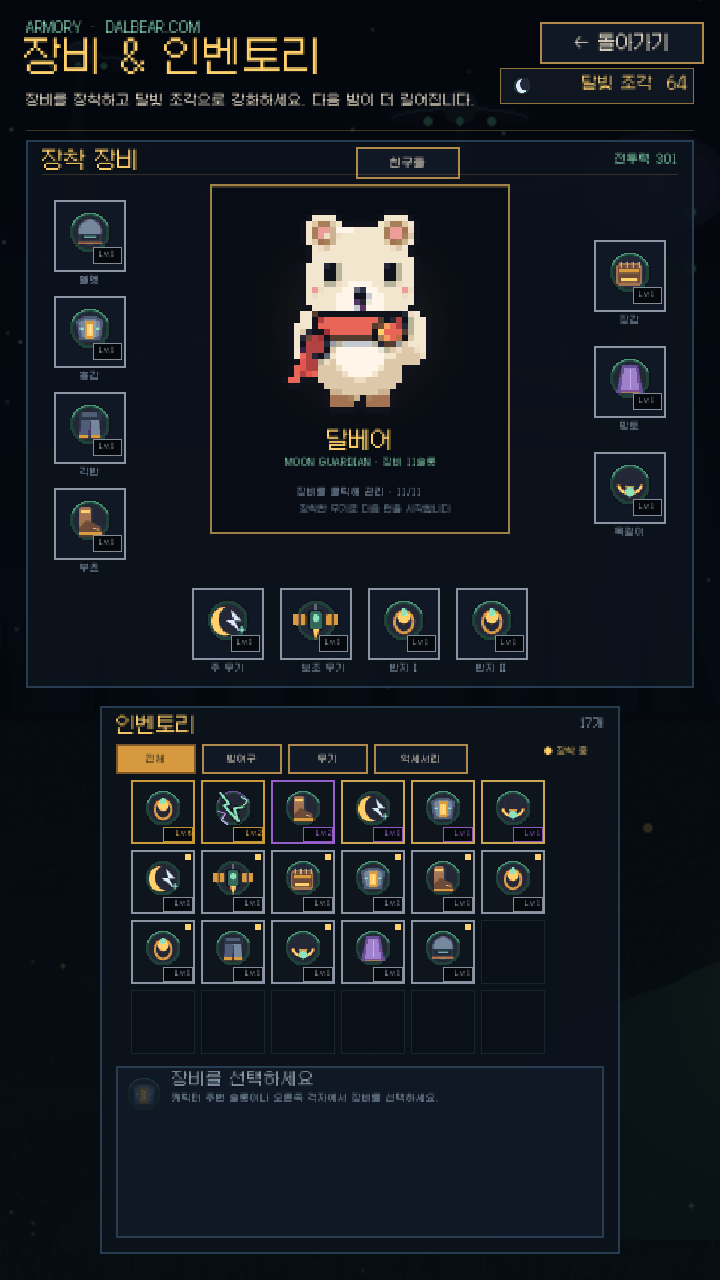
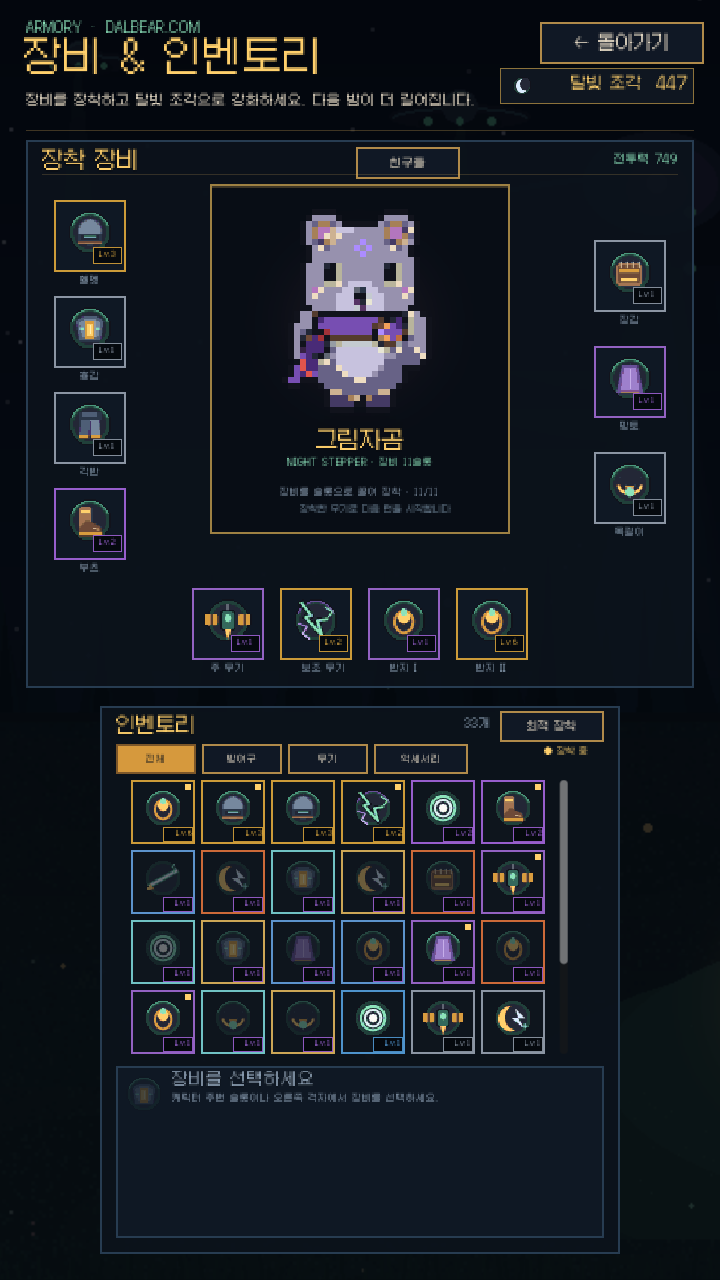
feat: drag-to-equip and one-tap best gear (v1.7.4)
Inventory items can be dragged (mouse or touch) onto a slot to equip, or onto the character to auto-place; a press that scrolls the list cancels the drag. Adds a 최적 장착 button and Game.auto_equip_best() to equip the strongest usable item in all 11 slots (distinct weapon types, best two rings, per-slot armor). Adds --test-drag. Bumps Android versionCode to 13.

diff --git a/README.md b/README.md
@@ -307,6 +307,8 @@ godot --headless --path . --export-debug "Android" build/DALBEAR.apk
 - 방어구와 악세서리는 체력·방어·피해·공격 대기·이동·치명타·자력·재생 등을 올립니다.
 - **전용 장비**(친구 서명 장비)는 일반 장비보다 강한 고유 능력치를 가지며, 지정된 친구만 장착할 수 있습니다.
 - 장비 화면 상단의 **친구들** 버튼 또는 `C`로 친구를 바꿀 수 있습니다.
+- 인벤토리 아이템을 **슬롯 위로 끌어다 놓아 장착**할 수 있습니다. 마우스 드래그와 터치 스와이프 모두 지원하며, 캐릭터 위에 놓으면 알맞은 빈 슬롯에 자동으로 들어갑니다.
+- 인벤토리 상단의 **최적 장착** 버튼 하나로 보유한 가장 강한 장비를 11개 슬롯에 자동 장착합니다. (전용 장비는 해당 친구만, 같은 무기 종류 중복 없음)
 
 ### 등급과 레벨
 
@@ -494,6 +496,7 @@ DalbearSurvival/
   godot --path . res://scenes/main.tscn -- --capture-rewards
   godot --path . res://scenes/equipment.tscn -- --capture-equipment
   godot --path . res://scenes/equipment.tscn -- --capture-equipment-detail
+  godot --path . res://scenes/equipment.tscn -- --test-drag
   godot --path . res://scenes/characters.tscn -- --capture-characters
   godot --path . res://scenes/main.tscn -- --friend=star --capture-game
   godot --path . res://scenes/main.tscn -- --touch --capture-game
